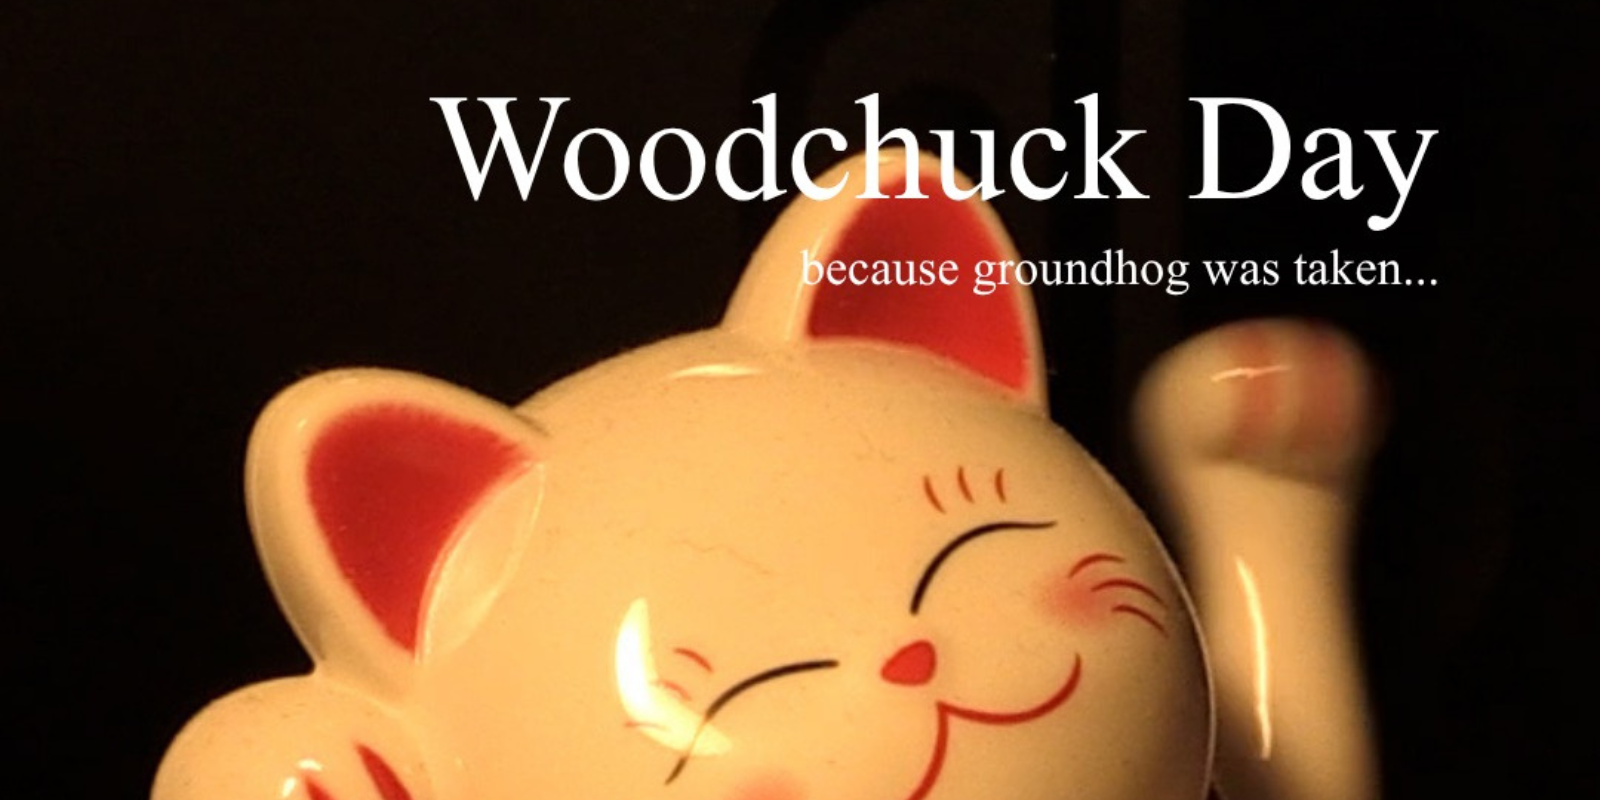
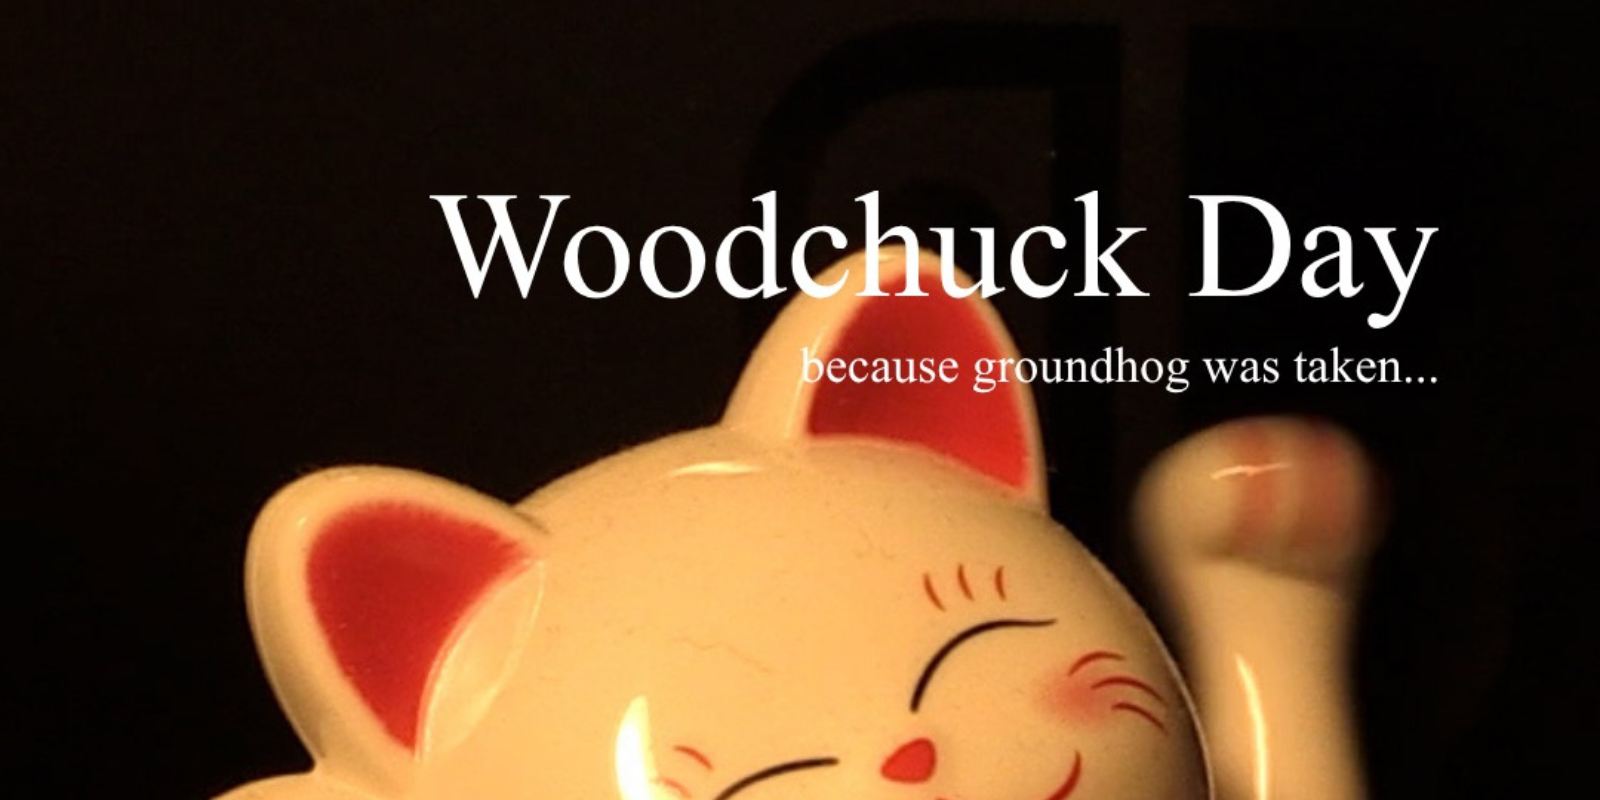
WCDF

diff --git a/src/content.config.ts b/src/content.config.ts
@@ -15,7 +15,7 @@ const blog = defineCollection({
 			updatedDate: z.coerce.date().optional(),
 			heroImage: z.array(z.string()).optional(),
 			draft: z.boolean().optional(),
-			category: z.enum(['General', 'Danger', 'Confluere', 'How NOT to Write Your College Essays']).optional(),
+			category: z.enum(['General', 'Danger', 'Confluere', 'How NOT to Write Your College Essays', 'Woodchuck Day']).optional(),
 		}),
 });
 

diff --git a/src/content/blog/Woodchuck Day.md b/src/content/blog/Woodchuck Day.md
@@ -1,0 +1,18 @@
+---
+title: 'Script'
+description: 'because Groundhog Day was taken...'
+pubDate: 'Jan 30 2026'
+heroImage: 
+    - /images/WCD2.png
+category: "Woodchuck Day"
+---
+
+I’m about to graduate high school; I’ve already turned 18, so this feels as good of a time as any to write this. Today wasn’t your first time falling short, and it definitely isn’t going to be the last, but take that anger and burn it; use it as fuel and fly higher. 10 years from now, I’m expecting great things. 
+
+If the first 18 years of life are but for Harvard, holy shit, you’ve failed. The culmination of your whole life, nearly two decades, was blown through in 5 minutes; Shakespeare couldn’t have written a greater tragedy. You’ve truly done it all; you can do it all, but what’s there to show? This last year has certainly been frustrating, but that’s the way it goes, right? Nothing easy is ever fun; what the hell’s the point, then? Are there regrets? Sure, but why cry over spilt milk? 
+
+You’re not the same person you were a year ago—hell, you’re not the same person you were yesterday—but promise me one thing: never lose that drive. 10 years is always when you say you’ll be someone that’s something—prove it. Never settle, never quit, and never stay down; go over, around, or through.
+
+--
+
+_an original script._